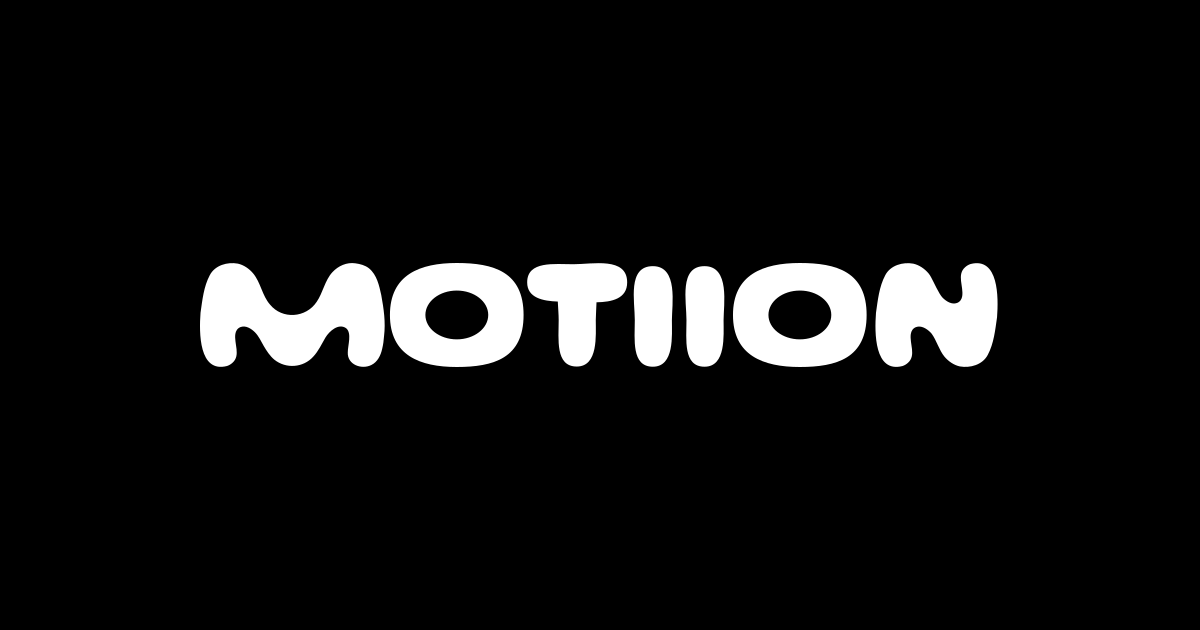
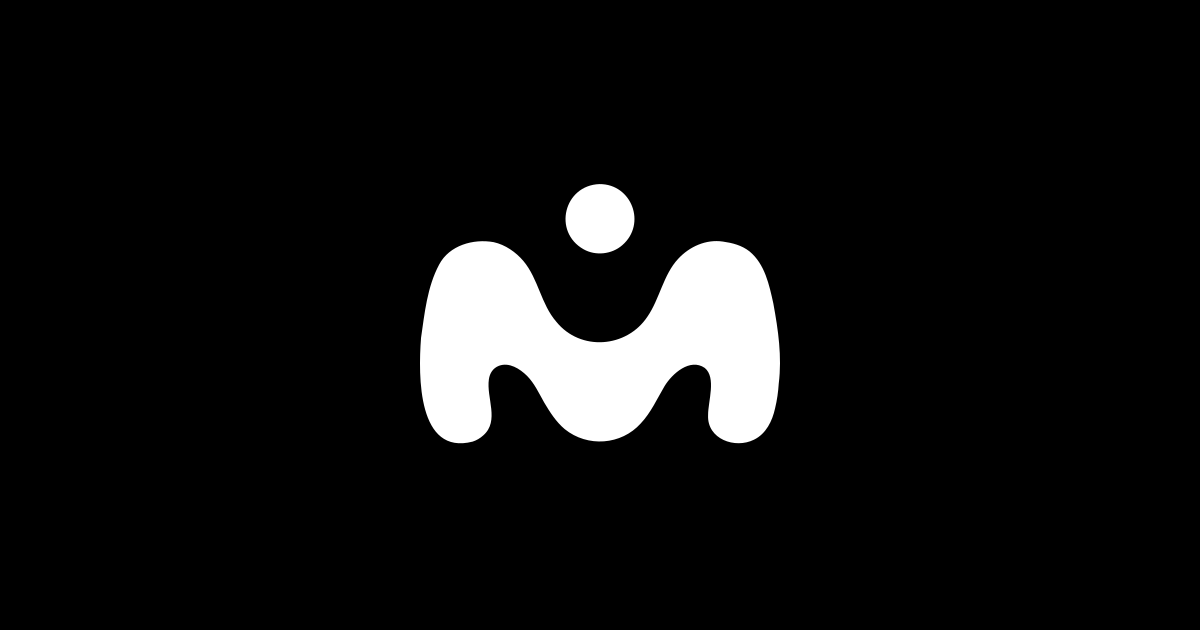
Use Motion symbol for casting preview fallback

Changed region(s): [[0.1542, 0.2714, 0.8325, 0.7238]]

diff --git a/src/app/casting/[id]/page.tsx b/src/app/casting/[id]/page.tsx
@@ -22,7 +22,7 @@ export async function generateMetadata({ params, searchParams }: PageProps): Pro
   const title = casting
     ? `Casting for ${casting.title}${selectedRole ? ` — ${selectedRole.title}` : ""} · Motiion`
     : "Casting on Motiion";
-  const previewImage = casting?.coverImageURL || `${siteUrl}/casting-share-fallback.png`;
+  const previewImage = casting?.coverImageURL || `${siteUrl}/casting-share-logo-v2.png`;
   const description = casting
     ? `${casting.production ? `${casting.production} — ` : ""}View this casting on Motiion and submit in the app.`
     : "View this casting on Motiion.";
